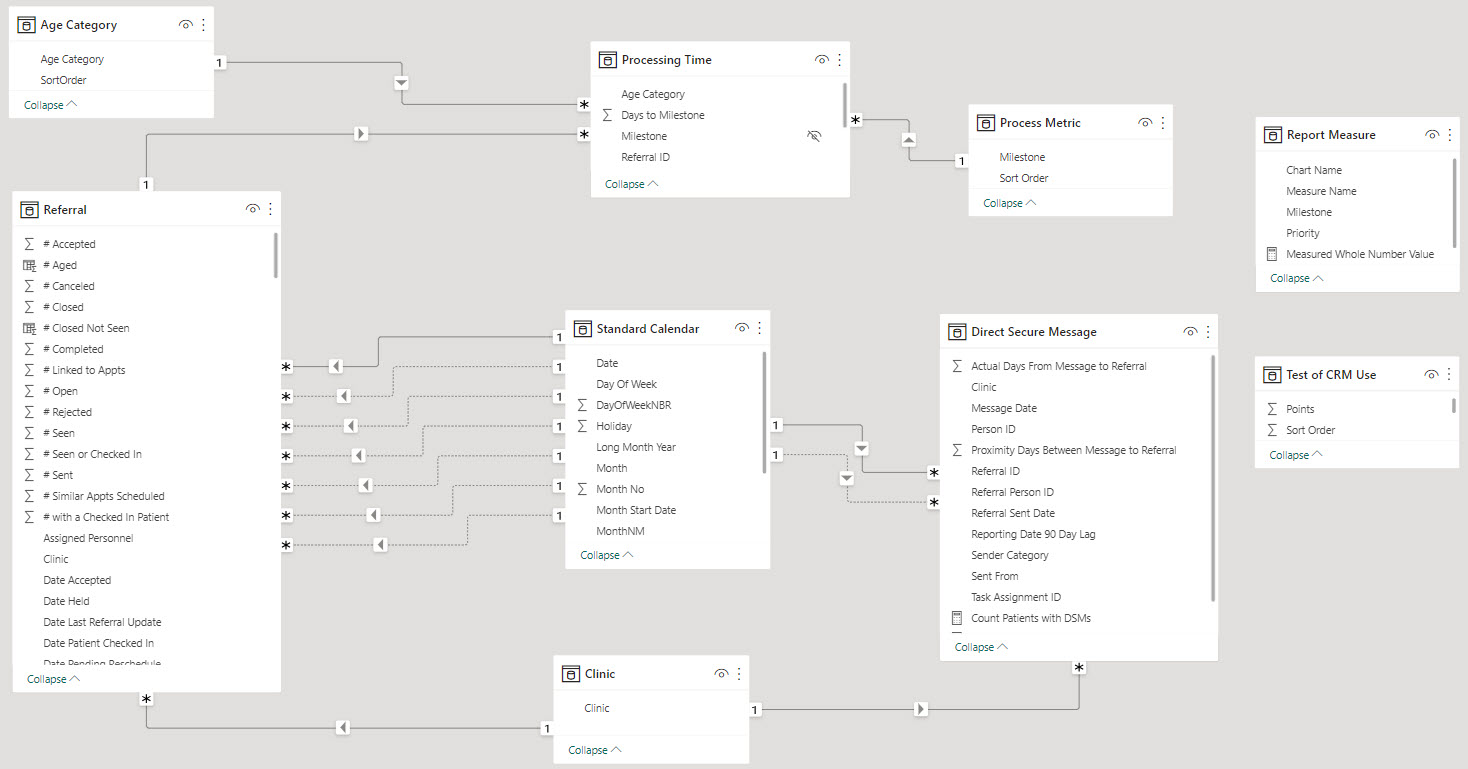
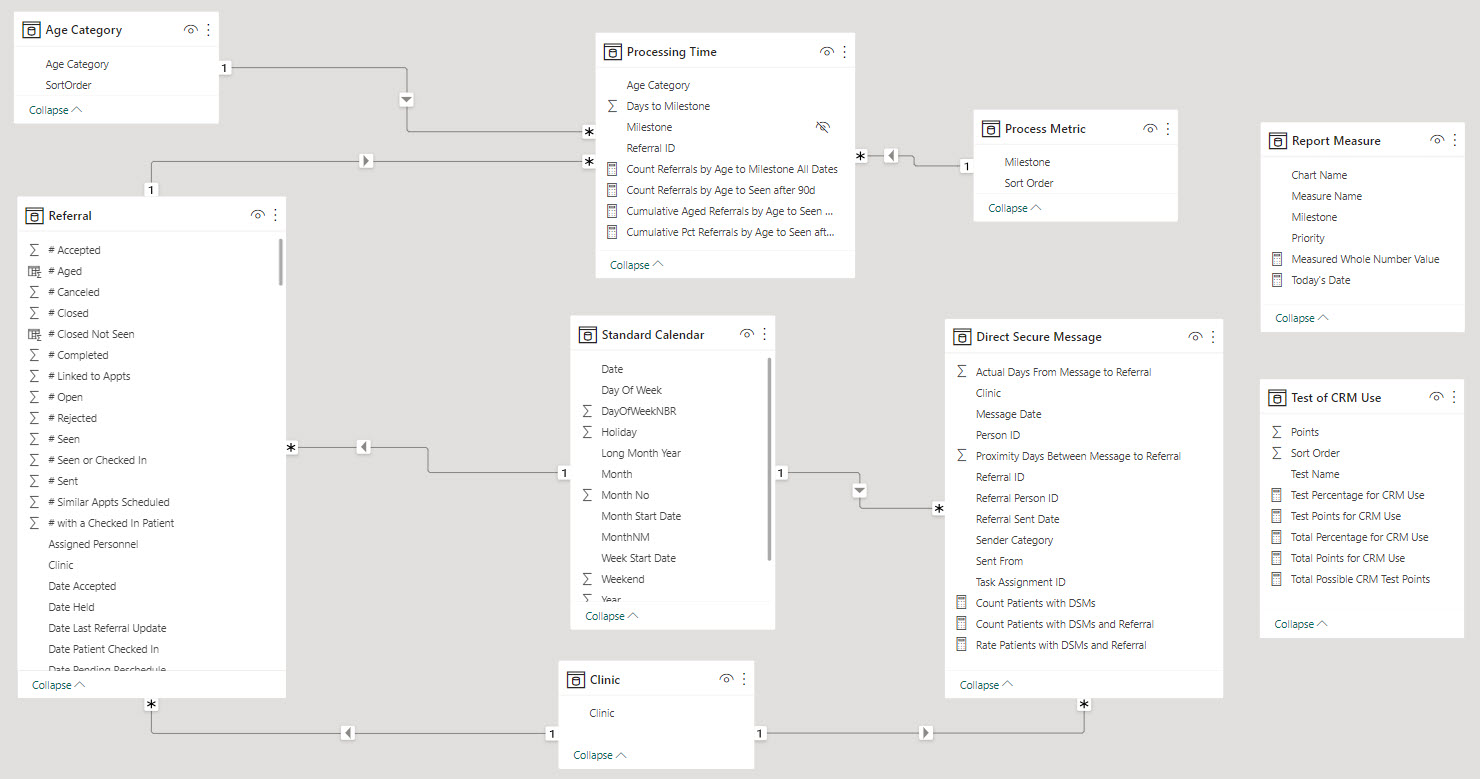
Refactoring data model

diff --git a/README.md b/README.md
@@ -73,9 +73,6 @@ Adding calculated columns in Power Query balances out the overall time spent wai
 ![Referral table transforms #2](images/referral_steps_2.jpg)    
 The number of days between milestones are also added to the table as calculated columns.  These columns are used to age referrals from the date when they are sent.  These ages are used to calculate median process timings. 
 
-![Referral table transforms #3](images/referral_steps_3.jpg)    
-Along the lines of shifting work to the data refresh, the query calculates a set of extended date columns used by DAX measures in the report.  These date manipulations are present in most of the measures that are visualized.  There are useful functions and techniques in DAX to calculate time phased measures without these calculated date columns, but this would come at the cost of more complicated DAX measures and more processing when slicer values change or a new page is selected.    
-
 ### Processing Time Table  
 ![Processing Time query steps](images/processing_time_steps.jpg)    
 **Processing Time** is a pivoted transformation of the referral process metrics into a vertical fact table rather than a horizontal list of milestone attributes.  Doing so grants the ability to filter visuals on specific metrics and apply the same aggregation across one or more selected metrics.  Using this data structure also simplifies the use of bar charts to place different metrics side by side for comparison.    
@@ -96,7 +93,7 @@ Care has to be taken with this fact table because the days to each referral mile
 The query for the **Direct Secure Message** table loads records of messages to referral inboxes from DirectSecureMessages.csv.  The query simply loads the file, typecasts, and renames columns.  These records are used to evaluate how often referrals are used to acquire new patients versus direct messaging.   
 
 ### Standard Calendar Table 
-The query for the **Standard Calendar** table loads records of calendar dates and their pivotal attributes from StandardCalendar.csv.  This query simply loads the file and typecasts columns.  These records are used to create the date dimension for the report.  This dimension will play many roles in the data model.   
+The query for the **Standard Calendar** table loads records of calendar dates and their pivotal attributes from StandardCalendar.csv.  This query simply loads the file and typecasts columns.  These records are used to create the date dimension for the report.  This dimension can play different roles in the data model by associating it with different date attributes in DAX measures.   
 
 ### Dimension Tables 
 ![Contents of the dimensions group](images/dimensions_group.jpg)    
@@ -130,9 +127,9 @@ The **Age Category** dimension table has an added column with a pre-defined sort
 ![Clinic name slicer on report page](images/clinic_slicer.jpg)    
 This slicer is an example of filtering a dimension table versus an attribute of a table.  The **Clinic** dimension table has one-to-many relationships to both the **Referral** and **Direct Secure Message** tables.  If this slicer were connected to the Clinic column in either of those two tables it would only filter the records in the table that the slicer was connected to.  Connecting the slicer, or any filter, to the **Clinic** table filters both of the tables that it is related to.  Filtering the **Referral** table will also filter the **Processing Time** table by transition since **Referral** acts as a dimension in that relationship.    
 
-The **Standard Calendar** table is the time dimension.  It is a table of calendar dates and attributes such as year and month that are used to filter and sort visualizations by date.    
+The **Standard Calendar** table is the time dimension.  It is a table of calendar dates and attributes such as year and month that are used to filter and sort visualizations by date.  The time dimension can participate in multiple relationships to tables.  Each new relationship represents a role that dates play in measures.  The date when a referral is sent or the date when a referral is placed on hold, for example.  A single, more generalized date dimension creates a simpler data model compared to sub-classes of date dimensions for every role.  A single date slicer in a report filters measures by different dates using the USERELATIONSHIP function in DAX.  The report currently only uses a single dimension to each table but if the need arose it could be augmented with more relationships.    
 
-**Standard Calendar** participates in multiple relationships to both the **Referral** and **Direct Secure Message** tables.  Each of these relationships represents a role that dates play in measures.  The date when a referral is sent or the date when a referral is placed on hold, for example.  A single, more generalized date dimension creates a simpler data model compared to sub-classes of date dimensions for every role.  A single date slicer in a report filters measures by different dates using the USERELATIONSHIP function in DAX.    
+A time dimension table is also required to use the time intelligence functions in DAX.    
 
 ## Power BI Report
 
@@ -154,40 +151,31 @@ This horizontal bar chart represents the volume of referrals sent to a clinic al
 This visualization is built upon a few layers of DAX measures.  
 ```
 Count Sent after 90d = 
-  MAX(
-    CALCULATE(DISTINCTCOUNTNOBLANK(Referral[Referral ID])
-      , KEEPFILTERS(Referral[# Sent] > 0)
-      , USERELATIONSHIP('Standard Calendar'[Date], Referral[Date Reported after 90d]))
-    , 0)
+MAX(
+  CALCULATE(DISTINCTCOUNTNOBLANK(Referral[Referral ID])
+    , KEEPFILTERS(Referral[# Sent] > 0) 
+    , DATEADD('Standard Calendar'[Date], -90, DAY) )
+  , 0) 
 ```    
-The core layer calculates the number of referrals sent to the clinic that aged 90 days.  Two calculated columns from the Power Query assist with this measure.  **# Sent** is either 1 or 0 and sums to the number of referrals sent.  The **Date Reported after 90d** column adds 90 days to the date the referral was sent.  The DAX function DATEADD could also be used but at the expense of more frequent processing when each visualization is rendered.  The 90 day age is a static concept that is built into the report.    
+The core layer calculates the number of referrals sent to the clinic that aged 90 days.  A calculated column in Power Query assists with this measure.  **# Sent** is either 1 or 0 and sums to the number of referrals sent.  This is done to make data model easier to read and use.  The processing to calculate this column is shifted to the refresh of the data model.  The DAX function DATEADD is used to include referrals that reached 90 days of age during the month.    
 
 ```
 Count Canceled after 90d = 
-MAX(
-  CALCULATE([Count Sent after 90d] 
-    , KEEPFILTERS(Referral[Referral Status] IN {"Cancelled"})
-  ) 
-  , 0) 
+  CALCULATE([Count Sent after 90d]  
+    , KEEPFILTERS(Referral[Referral Status] IN {"Cancelled"}) ) 
 
 Count Rejected after 90d = 
-MAX(
   CALCULATE([Count Sent after 90d] 
-    , KEEPFILTERS(Referral[Referral Status] IN {"Rejected"})
-  ) 
-  , 0) 
+    , KEEPFILTERS(Referral[Referral Status] IN {"Rejected"}) )
 ```    
 The counts of canceled and rejected referrals build on to the **Count Sent after 90d** measure by adding filters to focus on those specific subsets of referrals that were sent.  The canceled and rejected referrals are highlighted here because they are not considered in the percentage of referrals seen.  It is possible to reach 100%.    
 
 ```
 Count Referrals Closed WBS after 90d = 
-MAX(
   CALCULATE([Count Sent after 90d] 
-    , KEEPFILTERS( Referral[Referral Status] IN {"Completed", "Closed"} 
-                   && ISBLANK(Referral[Date Referral Seen]) 
-                   && ISBLANK(Referral[Date Patient Checked In]))
-  ) 
-  , 0) 
+    , KEEPFILTERS(Referral[Referral Status] IN {"Completed", "Closed"} 
+        && ISBLANK(Referral[Date Referral Seen]) 
+        && ISBLANK(Referral[Date Patient Checked In]) ) )
 ```    
 Referrals are counted as closed without being seen if they are sent but then completed or closed without any data to indicate that the patient was seen.  These referrals are also removed from the percentages of referrals that are seen.    
 
@@ -220,10 +208,10 @@ Referrals are aged if they are sent to a clinic and kept.  Aged referrals are in
 Count Referrals after 90d = 
 MAX(
   CALCULATE(SUM(Referral[# Aged]) 
-    , USERELATIONSHIP('Standard Calendar'[Date], Referral[Date Reported after 90d]) ) 
+    , DATEADD('Standard Calendar'[Date], -90, DAY) ) 
   , 0)
 ```
-The DAX measures for this chart are based on the number of aged referrals.  Aged referrals are those that are sent to a clinic and not rejected, canceled, or closed without being seen. **# Aged** is calculated for each referral record as a 1 or 0.  The **Date Reported after 90d** column places a referral in the reporting month in which it reaches 90 days of age.  Both of these columns are calculated in the Power Query load.    
+The DAX measures for this chart are based on the number of aged referrals.  Aged referrals are those that are sent to a clinic and not rejected, canceled, or closed without being seen. **# Aged** is calculated for each referral record as a 1 or 0.  Similar to **# Sent**, this column is calculated in the Power Query load and is meant to make the data model easier to read and use.    
 
 ``` 
 Count Accepted after 90d = 
@@ -235,10 +223,8 @@ CALCULATE([Count Referrals after 90d]
   , KEEPFILTERS(Referral[# Linked to Appts] > 0 || Referral[# Similar Appts Scheduled] > 0) )
 
 Count Completed after 90d = 
-MAX(
-  CALCULATE([Count Referrals after 90d]
-    , KEEPFILTERS(Referral[# Completed] > 0) )
-  , 0)
+CALCULATE([Count Referrals after 90d]
+  , KEEPFILTERS(Referral[# Completed] > 0) )
 ```
 The remaining measures in the bar chart filter the **Count Referrals after 90d** measure to count referrals that have reached specific milestones, reached 90 days of age, and are considered aged referrals.    
 
